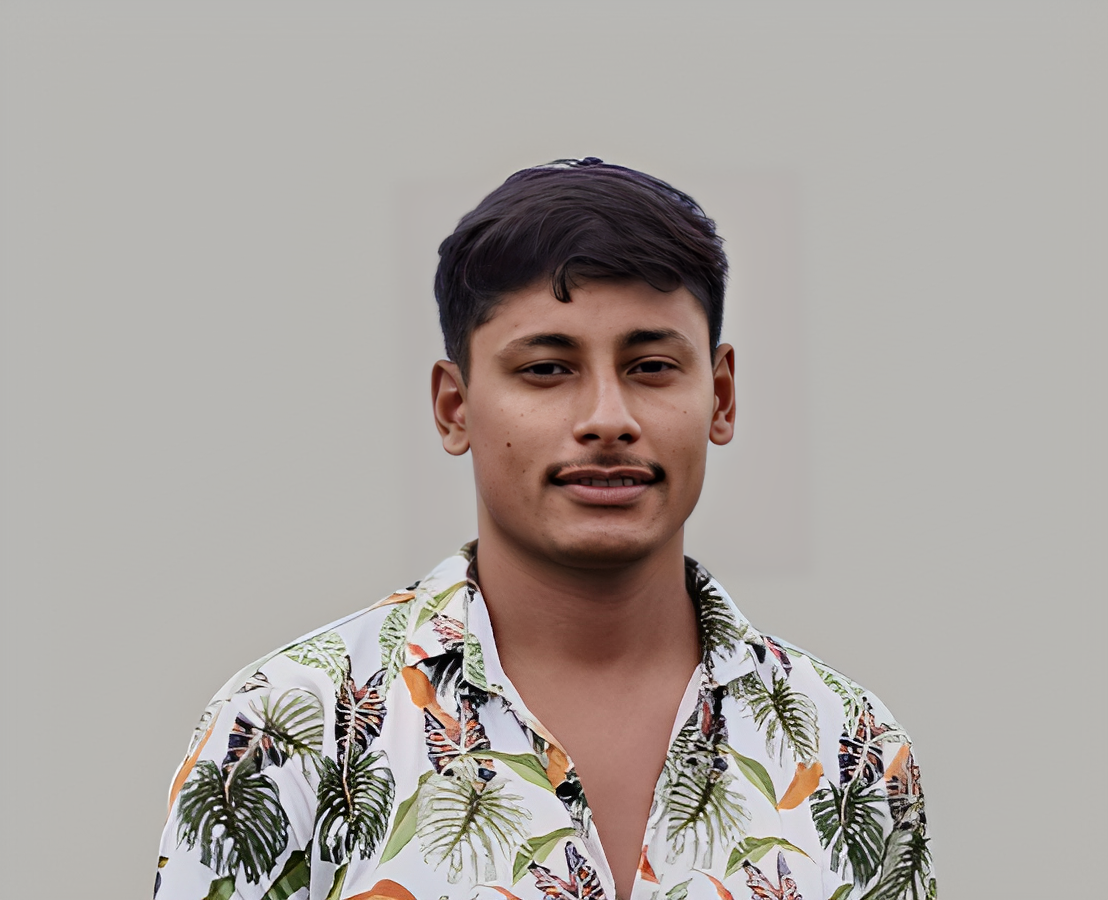
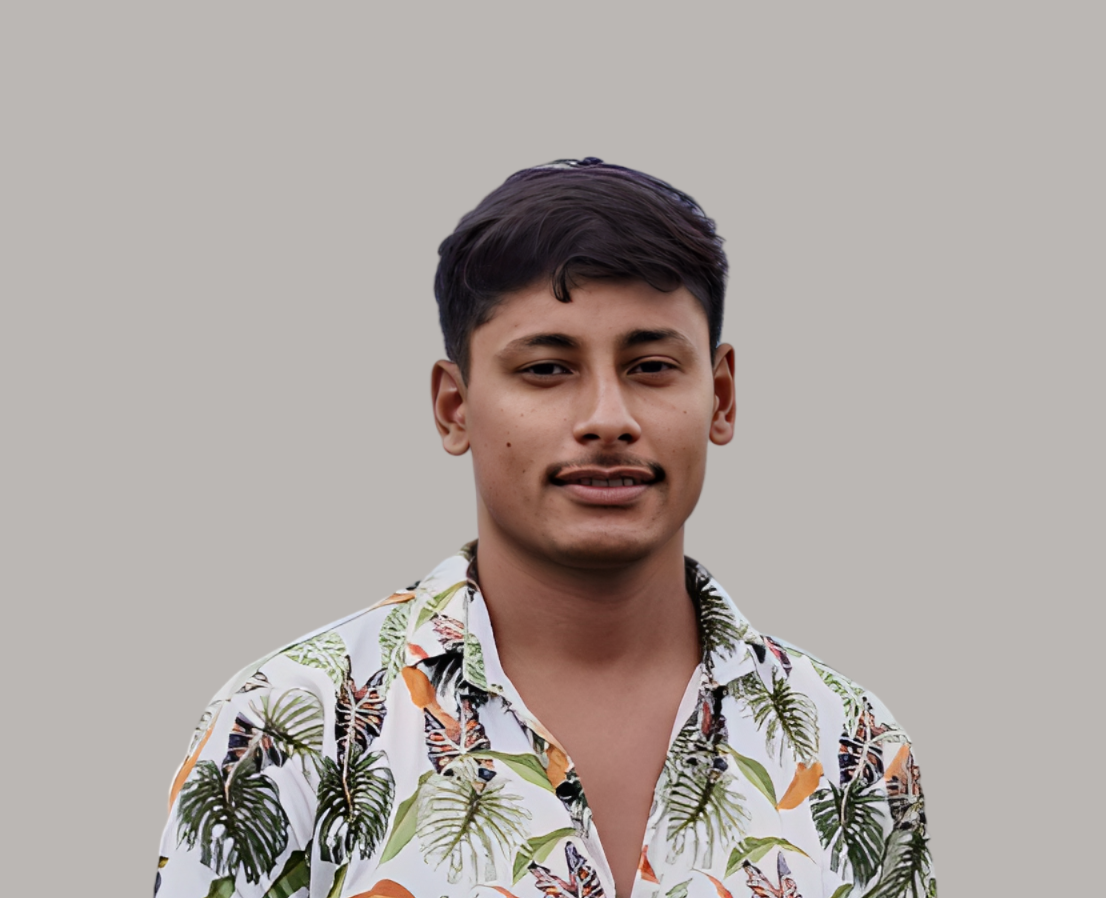
new

diff --git a/src/dist/styles.css b/src/dist/styles.css
@@ -327,7 +327,7 @@ nav ul li:hover{
 }
 
 .hero-img {
-  background-image: url("/src/images/profilePic.png");
+  background-image: url("/src/images/profilePic.webp");
   width: 35rem;
   height: 35rem;
   background-size: cover;
